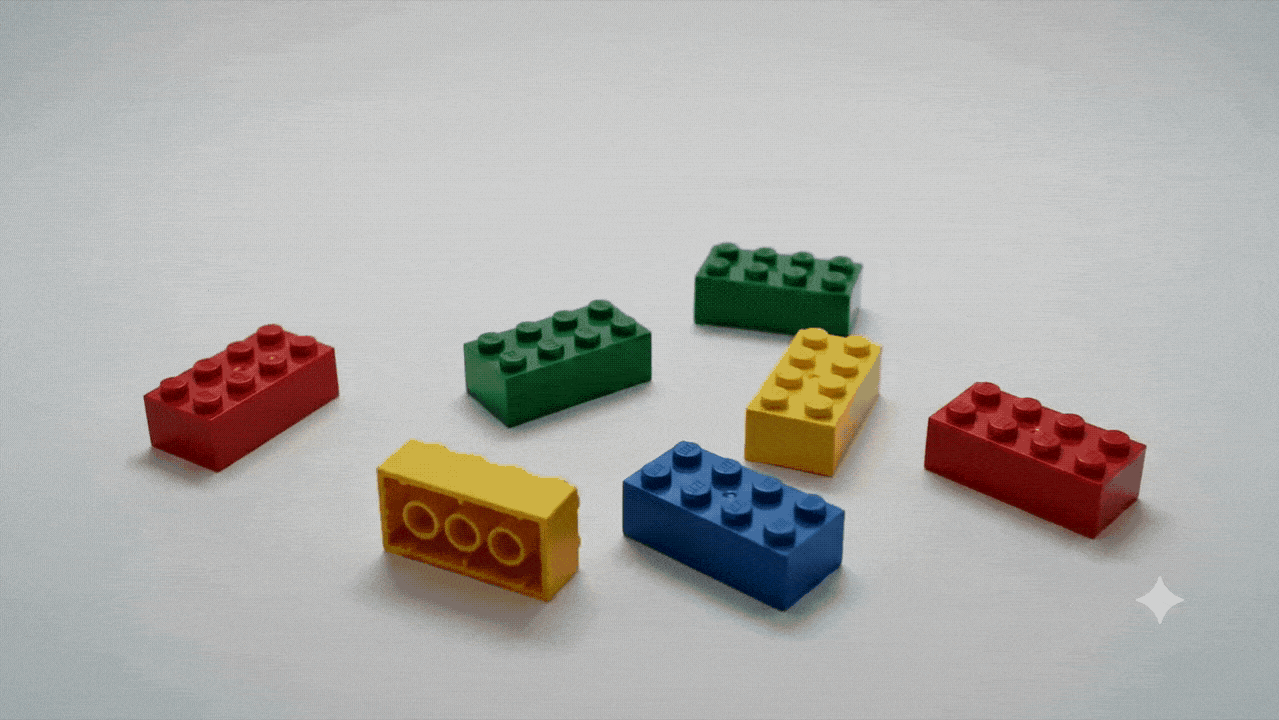
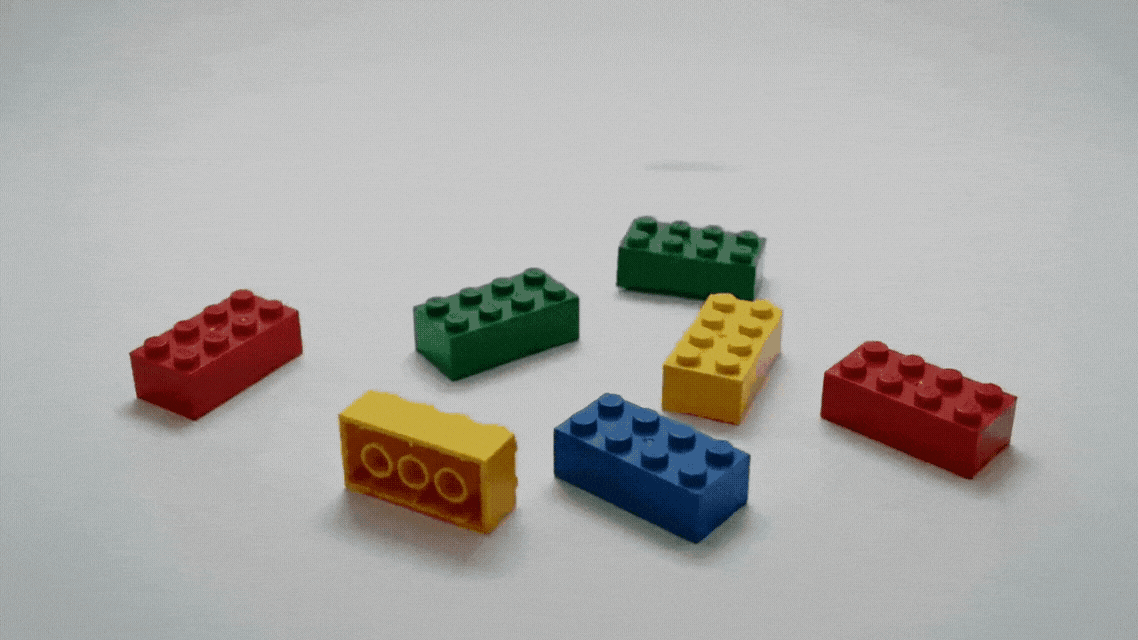
Home: watermark-free drop gif + poster, and a set-or-minifig drop rule
- Swap in the new watermark-free LegoDropSmall gif (5.5MB -> 4.1MB) and
  regenerate lego_drop_poster.png from its actual last frame (1138x640).
- The celebratory drop now plays for more than 5 sets, OR more than 15
  minifigs, OR more than 3 sets and more than 10 minifigs (was set count
  alone), so minifig-heavy collections trigger it too.

diff --git a/app/src/main/java/com/senniapp/brickwares/ui/home/HomeScreen.kt b/app/src/main/java/com/senniapp/brickwares/ui/home/HomeScreen.kt
@@ -146,7 +146,7 @@ private fun HomeContent(
                     // not BwTheme.currency, so a fresh switch never pairs an old amount with a new symbol.
                     currency = state.currency,
                     showGif = showHeroGif,
-                    showNoValue = shown.setCount <= HeroAssets.NO_VALUE_MAX_SETS,
+                    showNoValue = !HeroAssets.showsDrop(shown.setCount, shown.minifigCount),
                     onGifFinished = onGifFinished,
                 )
                 Spacer(Modifier.height(14.dp))
@@ -228,12 +228,20 @@ private object HeroAssets {
     /** Collections above this many sets show the larger celebratory drop. */
     const val SET_THRESHOLD = 100
 
-    /**
-     * At or below this many sets the hero shows the static "no value" brick ([NO_VALUE]) instead of
-     * the celebratory drop — the collection is too small to have meaningful value yet. Once the user
-     * owns more than this, the drop plays.
-     */
-    const val NO_VALUE_MAX_SETS = 3
+    // The hero shows the celebratory Lego-drop only once the collection is substantial enough to
+    // feel earned; below that it's the static "no value" brick. A user qualifies for the drop with
+    // more than 5 sets, OR more than 15 minifigs, OR more than 3 sets AND more than 10 minifigs — so
+    // both set-heavy and minifig-heavy collectors trigger it (2026-09-16).
+    private const val DROP_SETS_ONLY = 5
+    private const val DROP_MINIFIGS_ONLY = 15
+    private const val DROP_COMBO_SETS = 3
+    private const val DROP_COMBO_MINIFIGS = 10
+
+    /** Whether the hero plays the celebratory drop (vs the static "no value" brick) for this collection. */
+    fun showsDrop(setCount: Int, minifigCount: Int): Boolean =
+        setCount > DROP_SETS_ONLY ||
+            minifigCount > DROP_MINIFIGS_ONLY ||
+            (setCount > DROP_COMBO_SETS && minifigCount > DROP_COMBO_MINIFIGS)
 
     /** Static single-brick art shown while the collection is tiny (see [NO_VALUE_MAX_SETS]). */
     const val NO_VALUE = "file:///android_asset/no_value.png"
